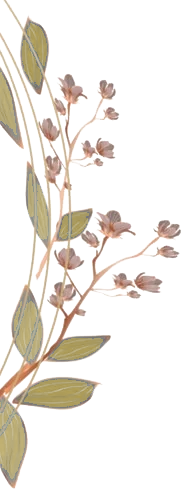
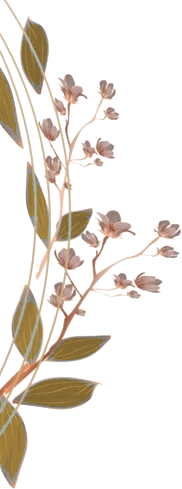
Dark gold leaves; please reach out; flat gold In sha Allah

diff --git a/src/components/sections/Contact.tsx b/src/components/sections/Contact.tsx
@@ -9,7 +9,7 @@ export function Contact({ content }: { content: InviteContent }) {
   return (
     <section className="contact paper paper-edge-bottom section-paper" aria-label="Contact">
       <div className="col">
-        <Reveal><div className="section-head" style={{ marginBottom: '0.6rem' }}><h2 className="section-title letterpress">For any questions,<br />please send a message</h2></div></Reveal>
+        <Reveal><div className="section-head" style={{ marginBottom: '0.6rem' }}><h2 className="section-title letterpress">For any questions,<br />please reach out</h2></div></Reveal>
         <div className="contact-list">
           {c.contacts.map((p, i) => (
             <Reveal key={i} index={i + 1}>

diff --git a/src/styles/sections.css b/src/styles/sections.css
@@ -1005,7 +1005,7 @@
   width: 105px;
   aspect-ratio: 350 / 106;
   margin: 1.1rem auto 0;
-  background-image: linear-gradient(105deg, var(--gold-deep) 0%, var(--gold-dark) 22%, var(--gold) 42%, var(--gold-light) 52%, var(--gold) 62%, var(--gold-dark) 80%, var(--gold-deep) 100%);
+  background: var(--gold-dark);
   -webkit-mask-image: url('../assets/masks/inshallah-mask.png');
   mask-image: url('../assets/masks/inshallah-mask.png');
   -webkit-mask-size: contain; mask-size: contain;
